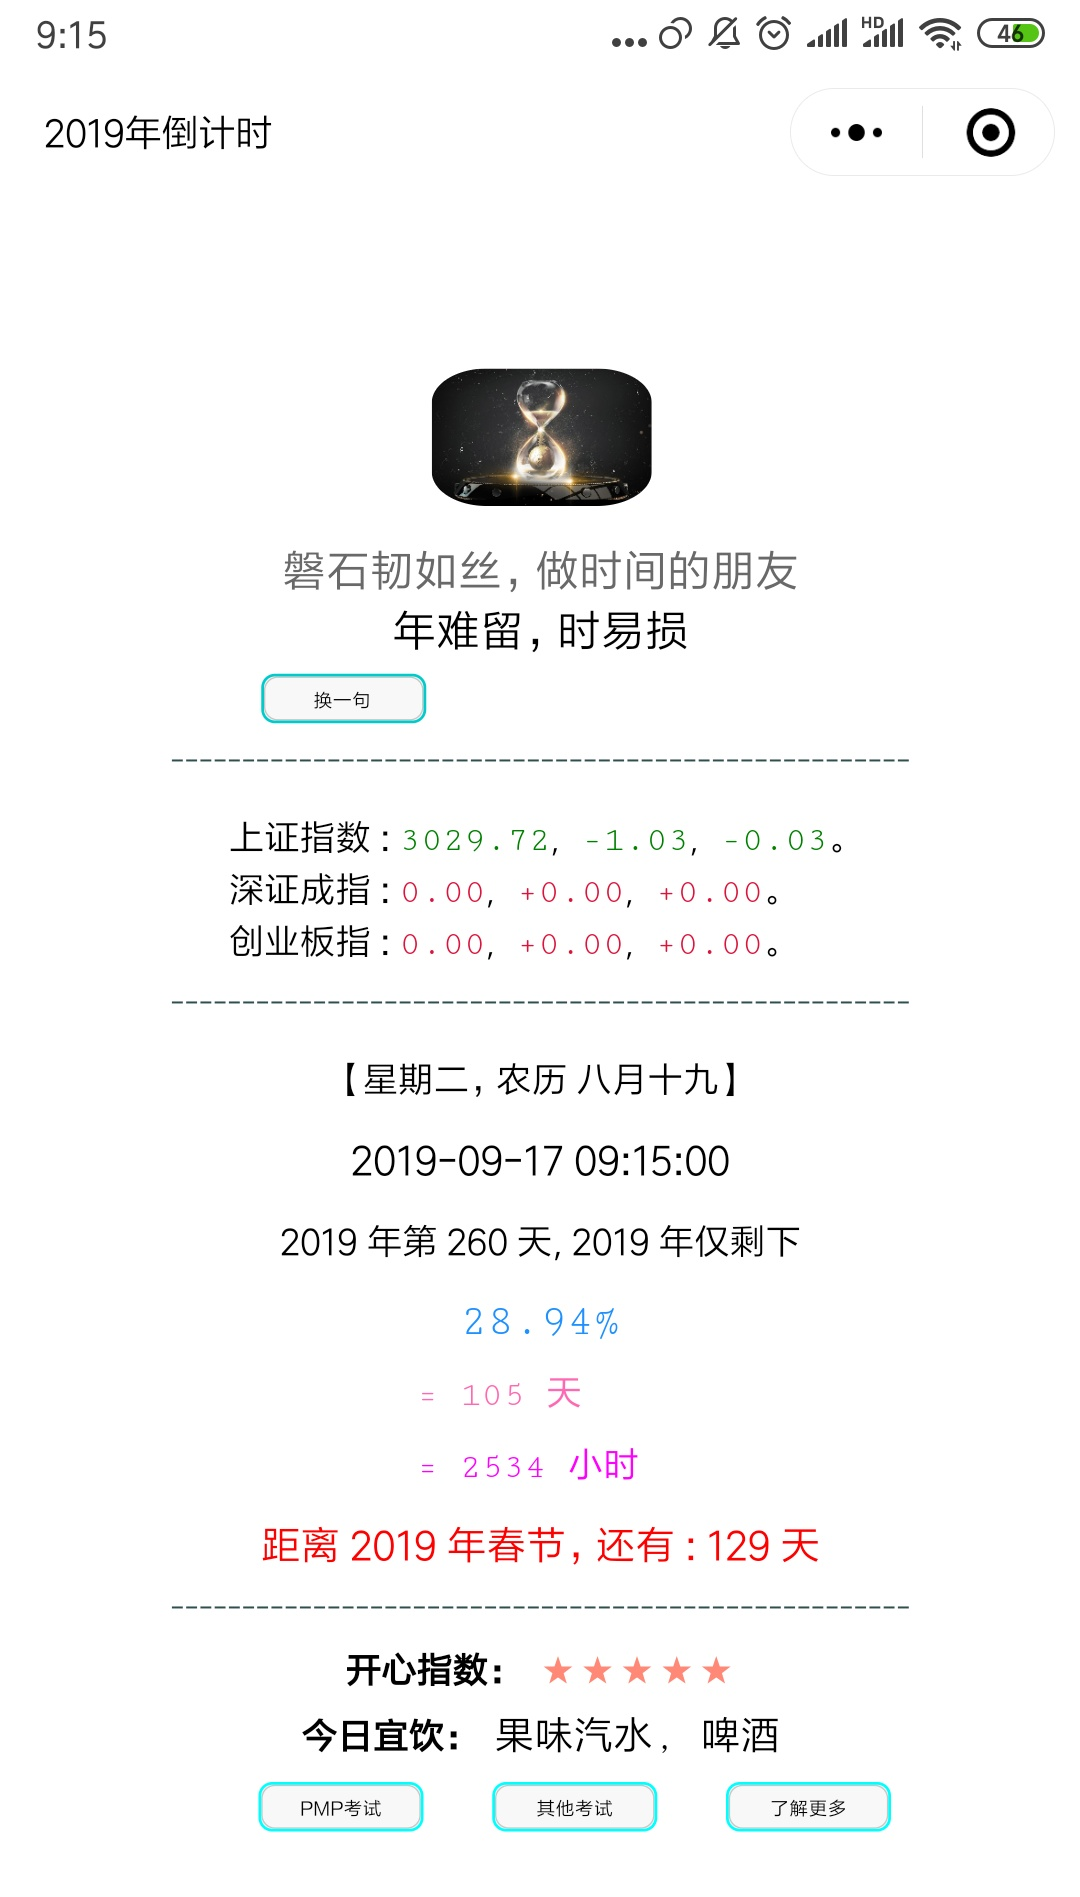
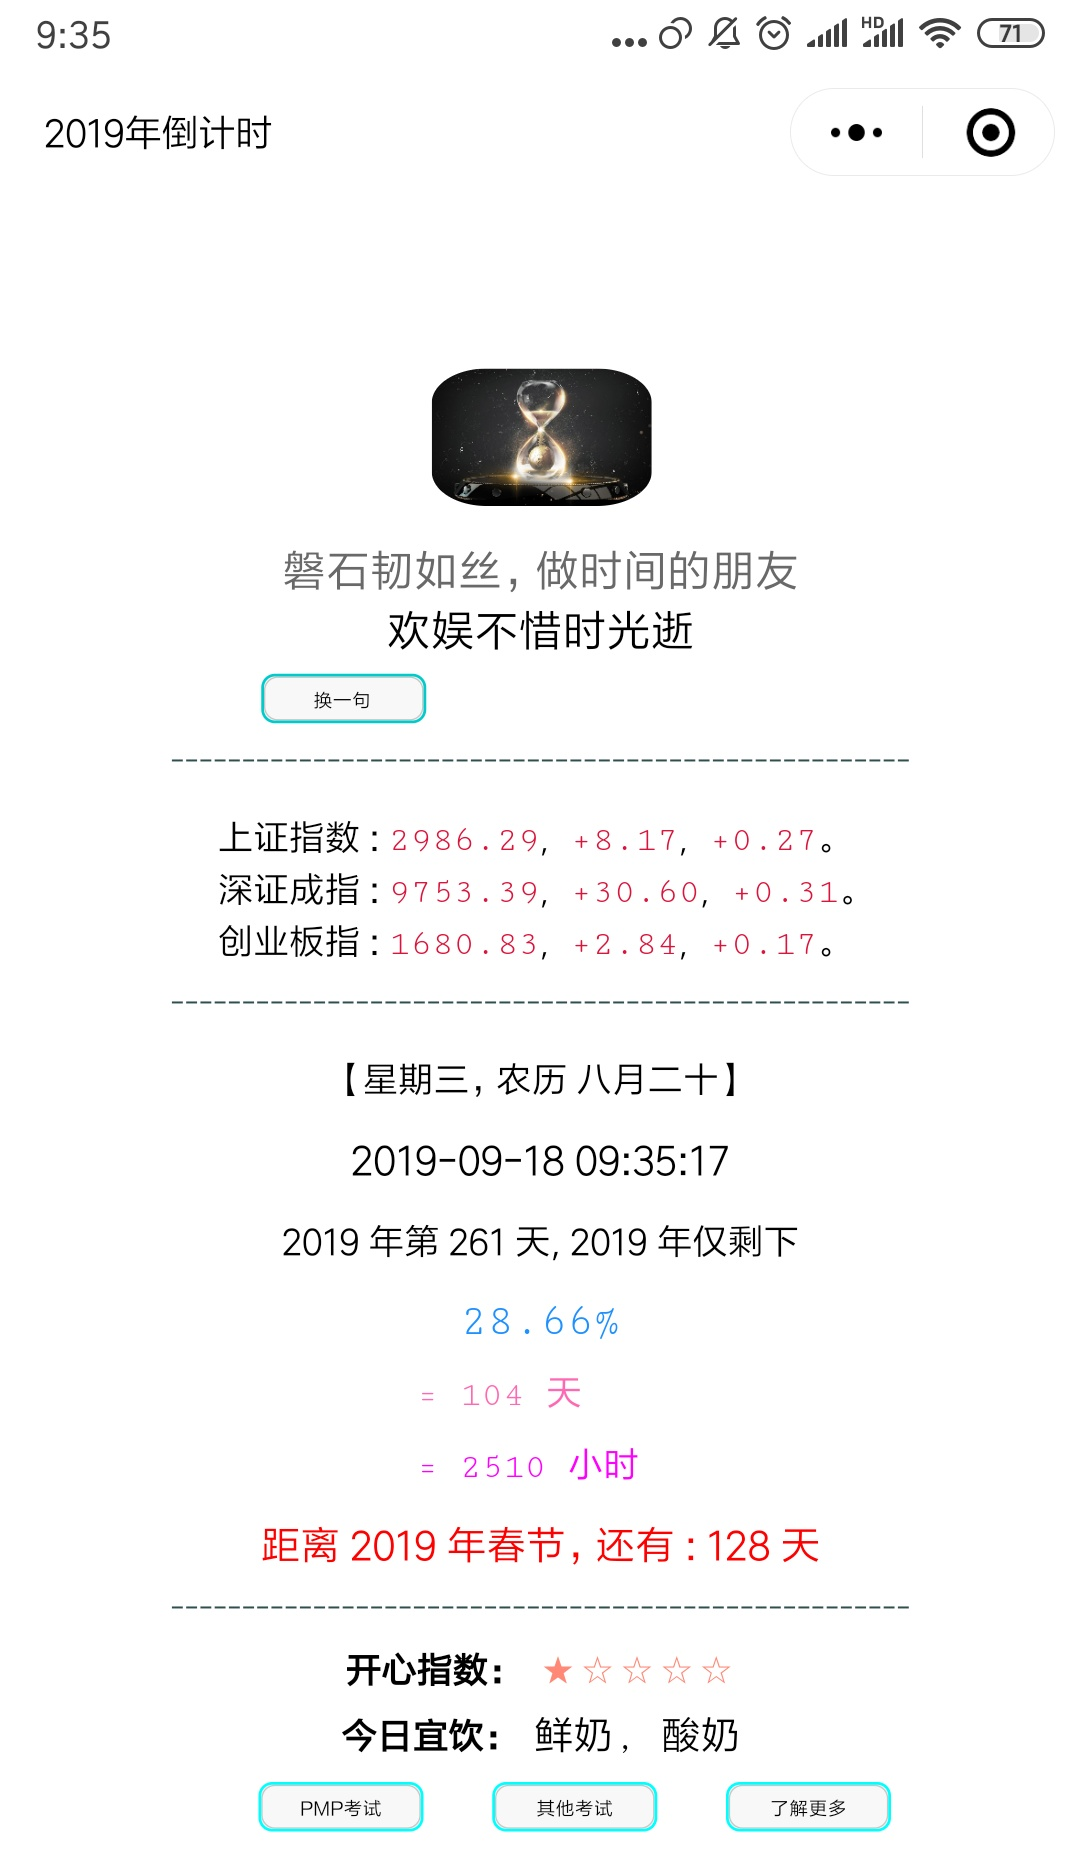
例行更新 20190918

diff --git a/source/_posts/001_2-FD_my_life_records-2019.md b/source/_posts/001_2-FD_my_life_records-2019.md
@@ -1,5 +1,5 @@
 ---
-title: 坚持的力量之数据人生-2019年9月17日
+title: 坚持的力量之数据人生-2019年9月18日
 tags:
   - 数据人生
   - 参考模板
@@ -20,14 +20,14 @@ keywords:
   - 宽978高553
 photos:
   - '/images/001_2/photos.png'
-description: 今天：2019 年 9 月 17 日，2019 年仅剩下 105 天。坚持记录和分析生活中的数据、信息和事件，尊重历史数据、信息和事件，人生将会更美好。
-date: 2019-09-17 00:02:05
+description: 今天：2019 年 9 月 18 日，2019 年仅剩下 104 天。坚持记录和分析生活中的数据、信息和事件，尊重历史数据、信息和事件，人生将会更美好。
+date: 2019-09-18 00:02:05
 ---
 <script type="text/javascript" src="/js/src/bai.js"></script>
 
-### 坚持的力量之数据人生-2019年9月17日
+### 坚持的力量之数据人生-2019年9月18日
 ------
-> 今天：2019 年 9 月 17 日，2019 年仅剩下 105 天。坚持记录和分析生活中的数据、信息和事件，尊重历史数据、信息和事件，人生将会更美好。
+> 今天：2019 年 9 月 18 日，2019 年仅剩下 104 天。坚持记录和分析生活中的数据、信息和事件，尊重历史数据、信息和事件，人生将会更美好。
 >
 > 序言：坚持记录和分析生活中的数据、信息和事件，尊重历史数据、信息和事件，人生将会更美好。
 
@@ -72,14 +72,14 @@ date: 2019-09-17 00:02:05
 
 | 序号 |       名称                                            |  类型  | 开始/结束日期 | 总天数 |          备注                           |
 | :--: | :---------------------------------------------------: | :----: | :-----------: | :----: | :-------------------------------------: |
-|  1   | <font color="#FF0000" size=2>读书荐书第 4/4 更</font> | 倒计时 | 2019/10/01    |  13    | 开始时间：2019/7/1                      |
-|  2   | <font color="#FF0000" size=2>重要节点</font>          | 倒计时 | 2020/03/01    |  169   | 开始时间：2018/6/15 剩余 10 个月        |
-|  3   | <font color="#0000FF" size=2>来上海</font>            | 计时   | 2011/06/25    |  2946  | 第 8 年进行中                           |
-|  4   | <font color="#0000FF" size=2>莫名其妙的计时</font>    | 计时   | 2018/11/12    |  305   | 莫名其妙的计时，希望永远不会停 ！！！   |
+|  1   | <font color="#FF0000" size=2>读书荐书第 4/4 更</font> | 倒计时 | 2019/10/01    |  12    | 开始时间：2019/7/1                      |
+|  2   | <font color="#FF0000" size=2>重要节点</font>          | 倒计时 | 2020/03/01    |  168   | 开始时间：2018/6/15 剩余 10 个月        |
+|  3   | <font color="#0000FF" size=2>来上海</font>            | 计时   | 2011/06/25    |  2947  | 第 8 年进行中                           |
+|  4   | <font color="#0000FF" size=2>莫名其妙的计时</font>    | 计时   | 2018/11/12    |  306   | 莫名其妙的计时，希望永远不会停 ！！！   |
 |  5   | <font color="#FF00FF" size=2>博客总计博文</font>      | 计数   | 2018/08/01    |  207   | [博客](/archives) 博文总计数目          |
 |  6   | <font color="#FF00FF" size=2>读书心得札记</font>      | 计数   | 2018/05/26    |  69    | [读书心得笔记并做笔记](/tags/札记人生/) |
 |  7   | <font color="#FF00FF" size=2>五篇好文推荐</font>      | 计数   | 2018/10/24    |  50    | [美文推荐](/tags/美文推荐/)             |
-|  8   | <font color="#FF00FF" size=2>公众号更新</font>        | 计数   | 2018/12/01    |  114   | [微信公众号（4 篇删除）](https://mp.weixin.qq.com/s/xxIkfGMFU7BaCeCJtdrtDg) |
+|  8   | <font color="#FF00FF" size=2>公众号更新</font>        | 计数   | 2018/12/01    |  115   | [微信公众号（4 篇删除）](https://mp.weixin.qq.com/s/xxIkfGMFU7BaCeCJtdrtDg) |
 
 #### 2. ❤ 今天记账了吗？记了，✔。 ❤
 ##### 2.1 记账信息详情
@@ -87,12 +87,11 @@ date: 2019-09-17 00:02:05
 
 | 日期                                   | 记账新增记录 | 记账总记录 | 记账总天数 | 记账时间      | 备注     |
 | :------:                               | :------:     | :------:   | :------:   | :------:      | :------: |
-|<font color="#000000"> 20190912 </font> | 7            | 10834      | 3125       | 8 年零 196 天 | 无       |
-|<font color="#000000"> 20190913 </font> | 8            | 10842      | 3126       | 8 年零 197 天 | 无       |
 |<font color="#000000"> 20190914 </font> | 9            | 10851      | 3127       | 8 年零 198 天 | 无       |
 |<font color="#000000"> 20190915 </font> | 6            | 10857      | 3128       | 8 年零 199 天 | 无       |
 |<font color="#000000"> 20190916 </font> | 4            | 10861      | 3129       | 8 年零 200 天 | 无       |
-|<font color="#FF0000"> 20190917 </font> | 5            | 10866      | 3130       | 8 年零 201 天 | 无       |
+|<font color="#000000"> 20190917 </font> | 5            | 10866      | 3130       | 8 年零 201 天 | 无       |
+|<font color="#FF0000"> 20190918 </font> | 4            | 10870      | 3131       | 8 年零 202 天 | 无       |
 
 
 #### 3. 历史数据汇总

diff --git a/source/_posts/001_1-FD_2018_year_all_checker-2019.md b/source/_posts/001_1-FD_2018_year_all_checker-2019.md
@@ -1,5 +1,5 @@
 ---
-title: 2019年每日日常综合打卡-2019年9月17日
+title: 2019年每日日常综合打卡-2019年9月18日
 tags:
   - 数据人生
   - 参考模板
@@ -21,14 +21,14 @@ keywords:
   - 宽978高553
 photos:
   - '/images/001_1/photos.png'
-description: 今天：2019 年 9 月 17 日，2019 年仅剩下 105 天。每天坚持打卡，9 月份针对每个任务打卡，慢慢来，一切都会更好的。
-date: 2019-09-17 00:01:01
+description: 今天：2019 年 9 月 18 日，2019 年仅剩下 104 天。每天坚持打卡，9 月份针对每个任务打卡，慢慢来，一切都会更好的。
+date: 2019-09-18 00:01:01
 ---
 <script type="text/javascript" src="/js/src/bai.js"></script>
 
-### 2019年每日日常综合打卡-2019年9月17日
+### 2019年每日日常综合打卡-2019年9月18日
 ---
-> 今天：2019 年 9 月 17 日，2018 年仅剩下 105 天。每日打卡，9 月份针对每个任务打卡，慢慢来，一切都会更好的。
+> 今天：2019 年 9 月 18 日，2018 年仅剩下 104 天。每日打卡，9 月份针对每个任务打卡，慢慢来，一切都会更好的。
 ---
 
 #### [我的微信公众号](https://mp.weixin.qq.com/s/xxIkfGMFU7BaCeCJtdrtDg)
@@ -72,7 +72,7 @@ date: 2019-09-17 00:01:01
 | 15 |二 ⭕  |五 ⭕  |五 ⭕  |一 ⭕  |三 ⭕  |六 ⭕  |一 ⭕  |四 ⭕  |日 ⭕  |二     |五     |日     |
 | 16 |三 ⭕  |六 ⭕  |六 ⭕  |二 ⭕  |四 ⭕  |日 ⭕  |二 ⭕  |五 ⭕  |一 ⭕  |三     |六     |一     |
 | 17 |四 ⭕  |日 ⭕  |日 ⭕  |三 ⭕  |五 ⭕  |一 ⭕  |三 ⭕  |六 ⭕  |二 ⭕  |四     |日     |二     |
-| 18 |五 ⭕  |一 ⭕  |一 ⭕  |四 ⭕  |六 ⭕  |二 ⭕  |四 ⭕  |日 ⭕  |三     |五     |一     |三     |
+| 18 |五 ⭕  |一 ⭕  |一 ⭕  |四 ⭕  |六 ⭕  |二 ⭕  |四 ⭕  |日 ⭕  |三 ⭕  |五     |一     |三     |
 | 19 |六 ⭕  |二 ⭕  |二 ⭕  |五 ⭕  |日 ⭕  |三 ⭕  |五 ⭕  |一 ⭕  |四     |六     |二     |四     |
 | 20 |日 ⭕  |三 ⭕  |三 ⭕  |六 ⭕  |一 ⭕  |四 ⭕  |六 ⭕  |二 ⭕  |五     |日     |三     |五     |
 | 21 |一 ⭕  |四 ⭕  |四 ⭕  |日 ⭕  |二 ⭕  |五 ⭕  |日 ⭕  |三 ⭕  |六     |一     |四     |六     |
@@ -110,7 +110,7 @@ date: 2019-09-17 00:01:01
 | 15 <font color="#FF0000">日</font> | ⭕        | ⭕        | ⭕        | ⭕        | ⭕         | ⭕        |           |
 | 16 <font color="#000000">一</font> | ⭕        | ⭕        | ⭕        | ⭕        | ⭕        | ⭕        |           |
 | 17 <font color="#000000">二</font> | ⭕        | ⭕        | ⭕        | ⭕        | ⭕        | ⭕        |           |
-| 18 <font color="#000000">三</font> |           |           |           |           |           |           |           |
+| 18 <font color="#000000">三</font> | ⭕        | ⭕        | ⭕        | ⭕        | ⭕        | ⭕        |           |
 | 19 <font color="#000000">四</font> |           |           |           |           |           |           |           |
 | 20 <font color="#000000">五</font> |           |           |           |           |           |           |           |
 | 21 <font color="#FF0000">六</font> |           |           |           |           |           |           |           |
